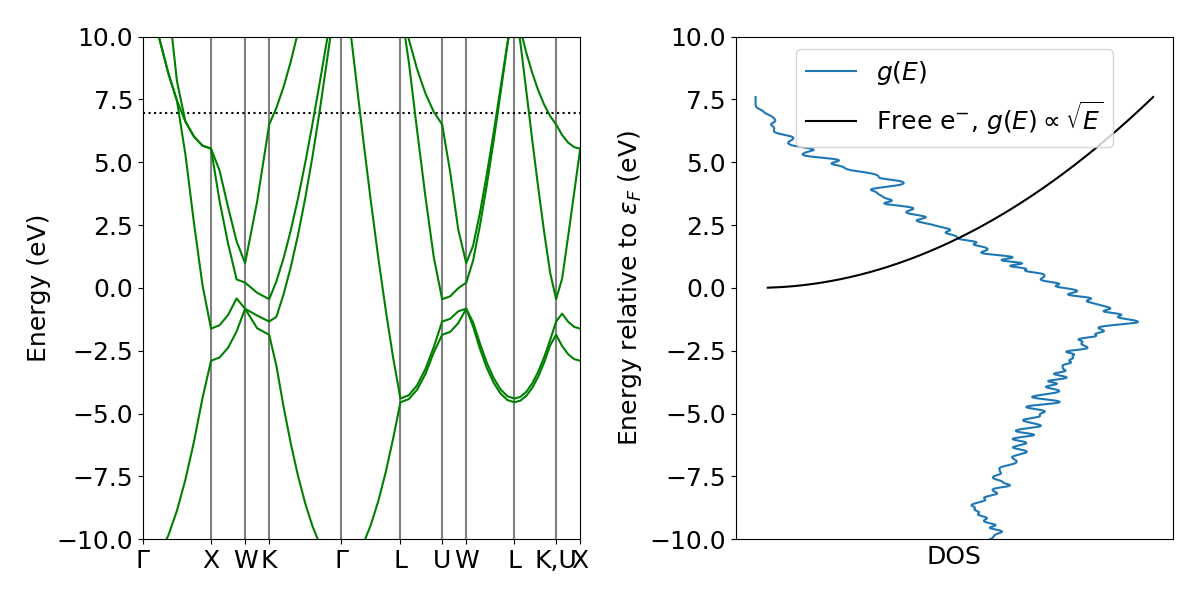
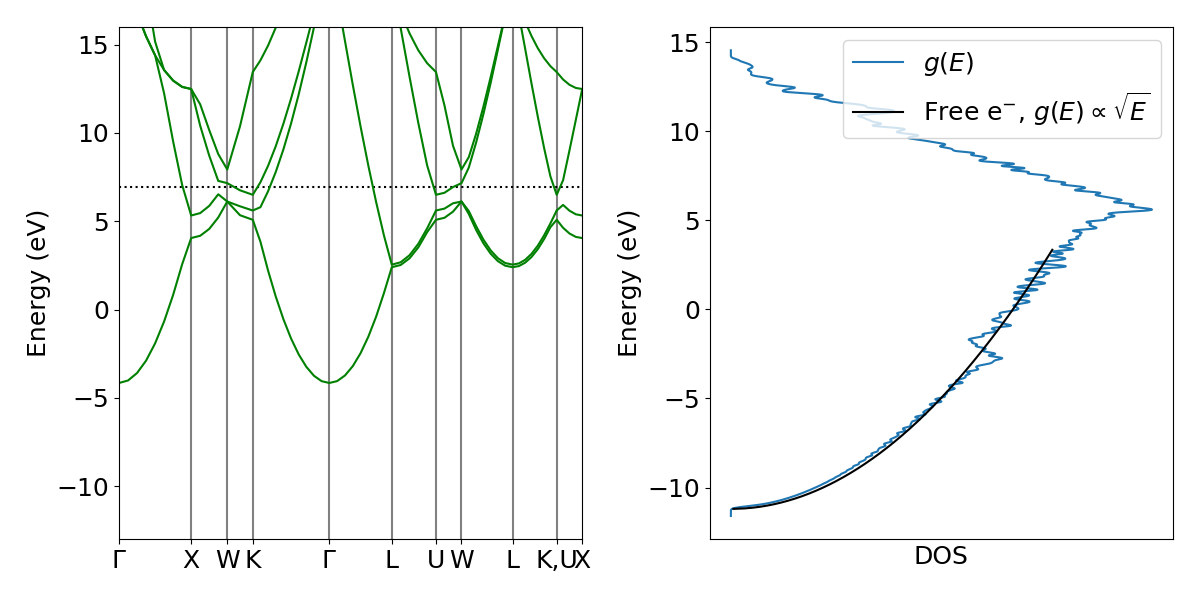
Prepare for rerun o task7 on hebbe

diff --git a/ComputationalMaterialsAndMolecularphysics/HW5/task7/task7.py b/ComputationalMaterialsAndMolecularphysics/HW5/task7/task7.py
@@ -97,47 +97,47 @@ if world.rank == 0:
 # # if world.rank == 0:
 # print('Electronic structure converged')
 
-atoms, calc = restart('Si_calc.gpw')
-# kpts = {'size': (20,20,20)}
-kpts = {'path': 'GXWKL', 'npoints': 60}
-calc.set(
-    kpts = kpts, 
-    fixdensity=True,
-    symmetry='off',  
-)
+# atoms, calc = restart('Si_calc.gpw')
+# # kpts = {'size': (20,20,20)}
+# kpts = {'path': 'GXWKL', 'npoints': 60}
+# calc.set(
+#     kpts = kpts, 
+#     fixdensity=True,
+#     symmetry='off',  
+# )
 
-# Fix the potential
-calc.get_potential_energy()
+# # Fix the potential
+# calc.get_potential_energy()
 
-# Get band structure and dos
-Ebs = atoms.calc.band_structure()  # Get the band structure
-if world.rank == 0:
-    print('Electronic band structure calculated')
+# # Get band structure and dos
+# Ebs = atoms.calc.band_structure()  # Get the band structure
+# if world.rank == 0:
+#     print('Electronic band structure calculated')
 
-# Set new k-mesh to the calculator to get a nice DOS
-kpts = {'size': (28,28,28)}
-calc.set(
-    kpts = kpts, 
-    fixdensity=True,
-    symmetry='off',  
-)
-# Fix the potential
-calc.get_potential_energy()
+# # Set new k-mesh to the calculator to get a nice DOS
+# kpts = {'size': (28,28,28)}
+# calc.set(
+#     kpts = kpts, 
+#     fixdensity=True,
+#     symmetry='off',  
+# )
+# # Fix the potential
+# calc.get_potential_energy()
 
-e, dos = calc.get_dos(spin=0, npts=1001, width=0.2)  # Get energy and density of states
-e_f = calc.get_fermi_level()  
-Edos = {
-    'e': e, 
-    'dos': dos,
-    'fermi': e_f
-} 
+# e, dos = calc.get_dos(spin=0, npts=1001, width=0.2)  # Get energy and density of states
+# e_f = calc.get_fermi_level()  
+# Edos = {
+#     'e': e, 
+#     'dos': dos,
+#     'fermi': e_f
+# } 
 
-# Save results
-pickle.dump( Ebs, open( "Ebs.p", "wb" ) )  # Save the electronic band structure
-pickle.dump( Edos, open( "Edos.p", "wb" ) )  # Save the electronic DOS
-calc.write('Si_electrons.gpw')
-if world.rank == 0:
-    print('Electronic structure calculation completed')
+# # Save results
+# pickle.dump( Ebs, open( "Ebs.p", "wb" ) )  # Save the electronic band structure
+# pickle.dump( Edos, open( "Edos.p", "wb" ) )  # Save the electronic DOS
+# calc.write('Si_electrons.gpw')
+# if world.rank == 0:
+#     print('Electronic structure calculation completed')
 
 
 #### Phononic band structure
@@ -151,7 +151,7 @@ calc.set(
 
 
 # Set up the ASE phonon calculator
-N = 4  # Use a 2x2x2 supercell
+N = 2  # Use a 2x2x2 supercell
 ph = Phonons(atoms, calc, supercell=(N, N, N), delta=0.05, name='./phonons/ph_Si')
 
 # Run the phonon calculation

diff --git a/ComputationalMaterialsAndMolecularphysics/HW5/task6/plot_task6.py b/ComputationalMaterialsAndMolecularphysics/HW5/task6/plot_task6.py
@@ -43,14 +43,15 @@ d = pickle.load(open( "Edos.p", "rb" ))
 fig, ax = plt.subplots(1,2, figsize=(12,6))
 
 # BS
-bs.energies = bs.energies - d['fermi']
-emax = 10
-emin = -emax
+# bs.energies = bs.energies - d['fermi']
+emax = 16
+emin = -13
 bs.plot(filename='', ax=ax[0], show=False, emax=emax, emin=emin)
 ax[0].set_ylabel(r'Energy (eV)')
 
 # DOS
-e = d['e']-d['fermi']
+# e = d['e']-d['fermi']
+e = d['e']
 # ax[1].fill_between( d['dos'], e, y2=0, color='grey',
 #                    edgecolor='k', lw=1, alpha=0.6, label=r'$g(E)$')
 ax[1].plot(d['dos'], e, label=r'$g(E)$' )
@@ -63,14 +64,14 @@ ePos = np.array([ ei for ei in e if ei>=0 ])
 # ma = 26.98 * 1.66e-27
 # n = Na*Z*rho/ma
 # freeE = 1.5 * n/d['fermi'] * np.sqrt(ePos/d['fermi'])   
-freeE = 0.115*np.sqrt(ePos)  # TODO set proper scale
-ax[1].plot(freeE, ePos, color='k', label=r'Free $\rm e^{-}$, $g(E) \propto \sqrt{E}$')
+freeE = 0.061*np.sqrt(ePos)  # TODO set proper scale
+ax[1].plot(freeE, ePos-11.2, color='k', label=r'Free $\rm e^{-}$, $g(E) \propto \sqrt{E}$')
 
 ax[1].legend(loc='best')
 ax[1].set_xticks([])
 # ax[1].set_xlabel(r'DOS ($\rm eV^{-1}$)') # TODO set proper units
 ax[1].set_xlabel(r'DOS')
-ax[1].set_ylabel(r'Energy relative to $\epsilon_F$ (eV)')
-ax[1].set_ylim((emin, emax))
+ax[1].set_ylabel(r'Energy (eV)')
+# ax[1].set_ylim((emin, emax))
 plt.tight_layout()
 plt.savefig('electronicAl.png')
